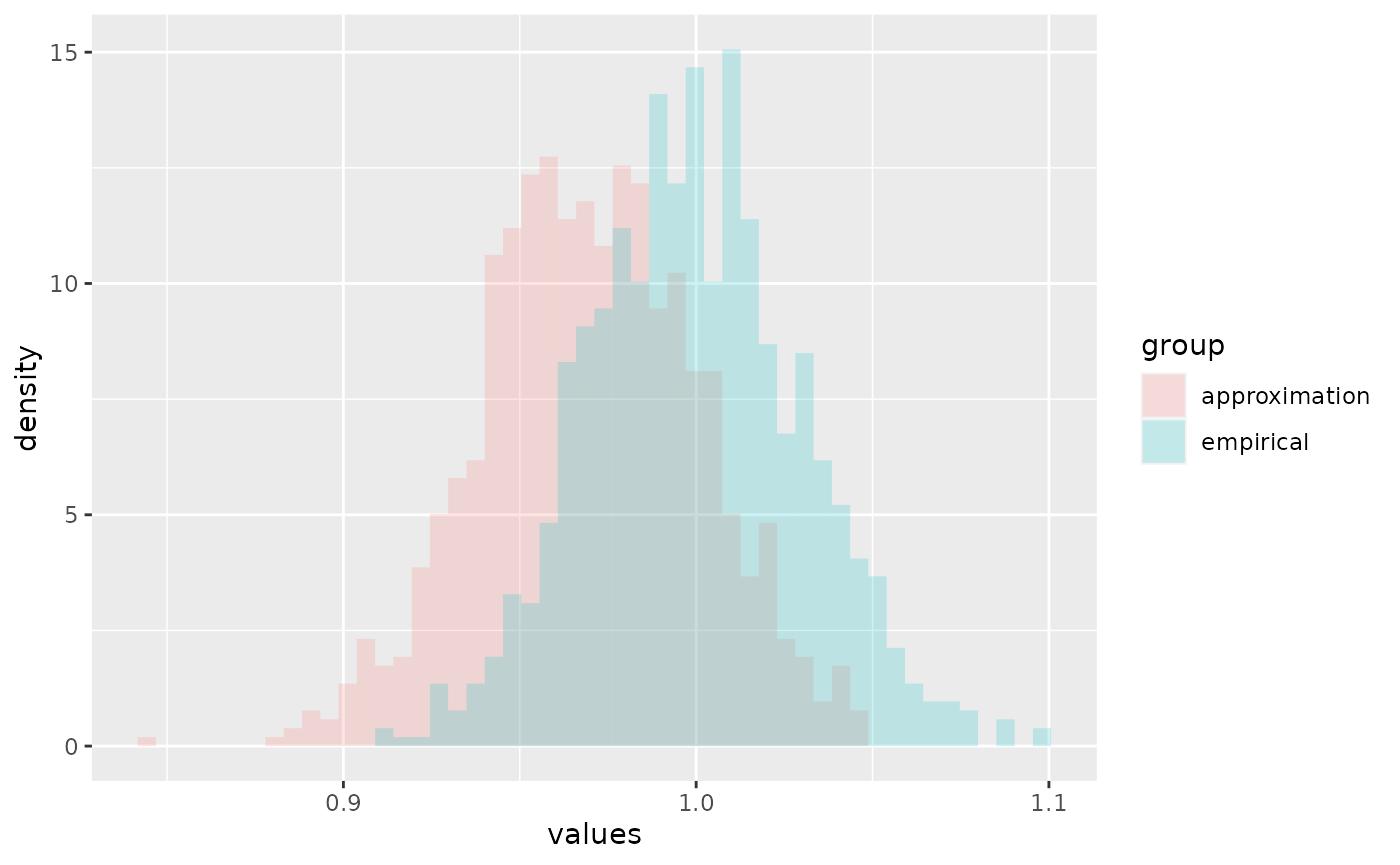
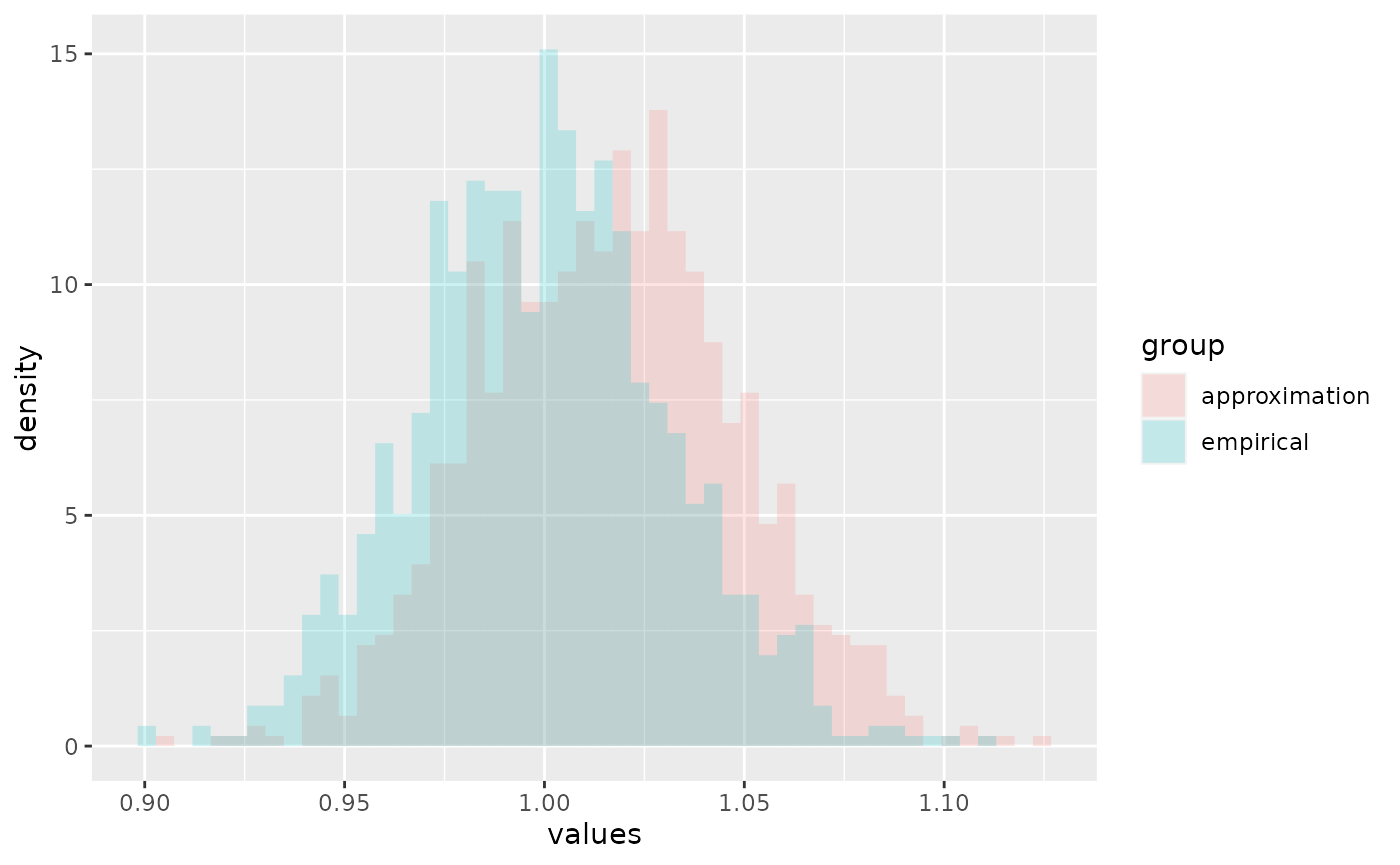
Built site for algebraic.mle: 0.1.0@9636455

diff --git a/articles/exponential-mle.html b/articles/exponential-mle.html
@@ -83,9 +83,11 @@
 <h2 id="introduction">Introduction<a class="anchor" aria-label="anchor" href="#introduction"></a>
 </h2>
 <p>To demonstrate the R package <code>algebraic.mle</code>, we consider the relatively simple case of a random sample from i.i.d. exponentially distributed random variables.</p>
-<p>First, we load the R package <code>algebraic.mle</code> with:</p>
+<p>First, we load the R package <code>algebraic.mle</code>, along with other R packages we need, with:</p>
 <div class="sourceCode" id="cb1"><pre class="downlit sourceCode r">
-<code class="sourceCode R"><span class="kw"><a href="https://rdrr.io/r/base/library.html" class="external-link">library</a></span><span class="op">(</span><span class="va"><a href="https://github.com/queelius/algebraic.mle" class="external-link">algebraic.mle</a></span><span class="op">)</span></code></pre></div>
+<code class="sourceCode R"><span class="kw"><a href="https://rdrr.io/r/base/library.html" class="external-link">library</a></span><span class="op">(</span><span class="va"><a href="https://github.com/queelius/algebraic.mle" class="external-link">algebraic.mle</a></span><span class="op">)</span>
+<span class="kw"><a href="https://rdrr.io/r/base/library.html" class="external-link">library</a></span><span class="op">(</span><span class="va"><a href="https://tibble.tidyverse.org/" class="external-link">tibble</a></span><span class="op">)</span>
+<span class="kw"><a href="https://rdrr.io/r/base/library.html" class="external-link">library</a></span><span class="op">(</span><span class="va"><a href="https://ggplot2.tidyverse.org" class="external-link">ggplot2</a></span><span class="op">)</span></code></pre></div>
 </div>
 <div class="section level2">
 <h2 id="generating-a-sample">Generating a sample<a class="anchor" aria-label="anchor" href="#generating-a-sample"></a>
@@ -96,23 +98,20 @@
 <span class="va">rate</span> <span class="op">&lt;-</span> <span class="fl">1</span></code></pre></div>
 <p>We generate a random sample <span class="math inline">\(X_i \sim \operatorname{EXP}(\lambda=1)\)</span> for <span class="math inline">\(i=1,\ldots,n\)</span> with:</p>
 <div class="sourceCode" id="cb3"><pre class="downlit sourceCode r">
-<code class="sourceCode R"><span class="kw"><a href="https://rdrr.io/r/base/library.html" class="external-link">library</a></span><span class="op">(</span><span class="va">stats</span><span class="op">)</span>
-<span class="kw"><a href="https://rdrr.io/r/base/library.html" class="external-link">library</a></span><span class="op">(</span><span class="va"><a href="https://tidyverse.tidyverse.org" class="external-link">tidyverse</a></span><span class="op">)</span>
-<span class="va">x</span> <span class="op">&lt;-</span> <span class="fu"><a href="https://tibble.tidyverse.org/reference/tibble.html" class="external-link">tibble</a></span><span class="op">(</span>x<span class="op">=</span><span class="fu">stats</span><span class="fu">::</span><span class="fu"><a href="https://rdrr.io/r/stats/Exponential.html" class="external-link">rexp</a></span><span class="op">(</span><span class="va">n</span>,<span class="va">rate</span><span class="op">)</span><span class="op">)</span></code></pre></div>
+<code class="sourceCode R"><span class="va">x</span> <span class="op">&lt;-</span> <span class="fu"><a href="https://tibble.tidyverse.org/reference/tibble.html" class="external-link">tibble</a></span><span class="op">(</span>x<span class="op">=</span><span class="fu"><a href="https://rdrr.io/r/stats/Exponential.html" class="external-link">rexp</a></span><span class="op">(</span><span class="va">n</span>,<span class="va">rate</span><span class="op">)</span><span class="op">)</span></code></pre></div>
 <p>We have observed a sample of size <span class="math inline">\(n=1000\)</span>. We show some observations from this sample (data frame) with:</p>
 <div class="sourceCode" id="cb4"><pre class="downlit sourceCode r">
 <code class="sourceCode R"><span class="fu"><a href="https://rdrr.io/r/base/print.html" class="external-link">print</a></span><span class="op">(</span><span class="fu"><a href="https://rdrr.io/r/utils/head.html" class="external-link">head</a></span><span class="op">(</span><span class="va">x</span>,n<span class="op">=</span><span class="fl">4</span><span class="op">)</span><span class="op">)</span>
 <span class="co">#&gt; <span style="color: #949494;"># A tibble: 4 × 1</span></span>
 <span class="co">#&gt;        x</span>
 <span class="co">#&gt;    <span style="color: #949494; font-style: italic;">&lt;dbl&gt;</span></span>
-<span class="co">#&gt; <span style="color: #BCBCBC;">1</span> 1.83  </span>
-<span class="co">#&gt; <span style="color: #BCBCBC;">2</span> 0.075<span style="text-decoration: underline;">1</span></span>
-<span class="co">#&gt; <span style="color: #BCBCBC;">3</span> 2.05  </span>
-<span class="co">#&gt; <span style="color: #BCBCBC;">4</span> 2.53</span></code></pre></div>
+<span class="co">#&gt; <span style="color: #BCBCBC;">1</span> 0.046<span style="text-decoration: underline;">8</span></span>
+<span class="co">#&gt; <span style="color: #BCBCBC;">2</span> 0.053<span style="text-decoration: underline;">3</span></span>
+<span class="co">#&gt; <span style="color: #BCBCBC;">3</span> 0.801 </span>
+<span class="co">#&gt; <span style="color: #BCBCBC;">4</span> 1.94</span></code></pre></div>
 <p>We show a histogram of the sample overlaid with a plot of the exponential function’s pdf, with:</p>
 <div class="sourceCode" id="cb5"><pre class="downlit sourceCode r">
-<code class="sourceCode R"><span class="kw"><a href="https://rdrr.io/r/base/library.html" class="external-link">library</a></span><span class="op">(</span><span class="va"><a href="https://ggplot2.tidyverse.org" class="external-link">ggplot2</a></span><span class="op">)</span>
-<span class="fu"><a href="https://ggplot2.tidyverse.org/reference/ggplot.html" class="external-link">ggplot</a></span><span class="op">(</span><span class="va">x</span>, <span class="fu"><a href="https://ggplot2.tidyverse.org/reference/aes.html" class="external-link">aes</a></span><span class="op">(</span>x<span class="op">=</span><span class="va">x</span><span class="op">)</span><span class="op">)</span> <span class="op">+</span> <span class="fu"><a href="https://ggplot2.tidyverse.org/reference/geom_histogram.html" class="external-link">geom_histogram</a></span><span class="op">(</span><span class="fu"><a href="https://ggplot2.tidyverse.org/reference/aes.html" class="external-link">aes</a></span><span class="op">(</span>y<span class="op">=</span><span class="va">..density..</span><span class="op">)</span>,alpha<span class="op">=</span><span class="fl">.2</span><span class="op">)</span> <span class="op">+</span>
+<code class="sourceCode R"><span class="fu"><a href="https://ggplot2.tidyverse.org/reference/ggplot.html" class="external-link">ggplot</a></span><span class="op">(</span><span class="va">x</span>, <span class="fu"><a href="https://ggplot2.tidyverse.org/reference/aes.html" class="external-link">aes</a></span><span class="op">(</span>x<span class="op">=</span><span class="va">x</span><span class="op">)</span><span class="op">)</span> <span class="op">+</span> <span class="fu"><a href="https://ggplot2.tidyverse.org/reference/geom_histogram.html" class="external-link">geom_histogram</a></span><span class="op">(</span><span class="fu"><a href="https://ggplot2.tidyverse.org/reference/aes.html" class="external-link">aes</a></span><span class="op">(</span>y<span class="op">=</span><span class="va">..density..</span><span class="op">)</span>,alpha<span class="op">=</span><span class="fl">.2</span><span class="op">)</span> <span class="op">+</span>
     <span class="fu"><a href="https://ggplot2.tidyverse.org/reference/lims.html" class="external-link">xlim</a></span><span class="op">(</span><span class="fl">0</span>,<span class="fl">6</span><span class="op">)</span> <span class="op">+</span> 
     <span class="fu"><a href="https://ggplot2.tidyverse.org/reference/geom_function.html" class="external-link">geom_function</a></span><span class="op">(</span>fun<span class="op">=</span><span class="va">dexp</span><span class="op">)</span></code></pre></div>
 <p><img src="exponential-mle_files/figure-html/unnamed-chunk-5-1.png" width="700"></p>
@@ -126,35 +125,35 @@
 <span class="fu"><a href="https://rdrr.io/r/base/summary.html" class="external-link">summary</a></span><span class="op">(</span><span class="va">rate.hat</span><span class="op">)</span>
 <span class="co">#&gt; Maximum likelihood estimator, of type mle_exp ,</span>
 <span class="co">#&gt; is normally distributed with mean</span>
-<span class="co">#&gt; [1] 0.9692816</span>
+<span class="co">#&gt; [1] 1.016196</span>
 <span class="co">#&gt; and variance-covariance</span>
-<span class="co">#&gt;              [,1]</span>
-<span class="co">#&gt; [1,] 0.0009395067</span>
+<span class="co">#&gt;             [,1]</span>
+<span class="co">#&gt; [1,] 0.001032655</span>
 <span class="co">#&gt; ---</span>
-<span class="co">#&gt; The asymptotic mean squared error 0.0009395067 </span>
+<span class="co">#&gt; The asymptotic mean squared error 0.001032655 </span>
 <span class="co">#&gt; The asymptotic 95% confidence interval is</span>
 <span class="co">#&gt;       2.5 %   97.5 %</span>
-<span class="co">#&gt; 1 0.9188645 1.019699</span>
-<span class="co">#&gt; The log-likelihood is -1031.2 </span>
-<span class="co">#&gt; The AIC is 2064.4</span></code></pre></div>
+<span class="co">#&gt; 1 0.9633389 1.069053</span>
+<span class="co">#&gt; The log-likelihood is -983.9336 </span>
+<span class="co">#&gt; The AIC is 1969.867</span></code></pre></div>
 <p>We can show the point estimator with:</p>
 <div class="sourceCode" id="cb7"><pre class="downlit sourceCode r">
 <code class="sourceCode R"><span class="fu"><a href="../reference/point.html">point</a></span><span class="op">(</span><span class="va">rate.hat</span><span class="op">)</span>
-<span class="co">#&gt; [1] 0.9692816</span></code></pre></div>
+<span class="co">#&gt; [1] 1.016196</span></code></pre></div>
 <p>We can show the Fisher information and variance-covariance matrices with:</p>
 <div class="sourceCode" id="cb8"><pre class="downlit sourceCode r">
 <code class="sourceCode R"><span class="fu"><a href="../reference/fisher_info.html">fisher_info</a></span><span class="op">(</span><span class="va">rate.hat</span><span class="op">)</span>
-<span class="co">#&gt;          [,1]</span>
-<span class="co">#&gt; [1,] 1064.388</span>
+<span class="co">#&gt;         [,1]</span>
+<span class="co">#&gt; [1,] 968.378</span>
 <span class="fu"><a href="https://rdrr.io/r/stats/vcov.html" class="external-link">vcov</a></span><span class="op">(</span><span class="va">rate.hat</span><span class="op">)</span>
-<span class="co">#&gt;              [,1]</span>
-<span class="co">#&gt; [1,] 0.0009395067</span></code></pre></div>
+<span class="co">#&gt;             [,1]</span>
+<span class="co">#&gt; [1,] 0.001032655</span></code></pre></div>
 <p>(If <code>rate.hat</code> had been a vector, <code>vcov</code> would have output a variance-covariance matrix. We may consider the above outputs <span class="math inline">\(1 \times 1\)</span> matrices.)</p>
 <p>We can show the confidence interval with:</p>
 <div class="sourceCode" id="cb9"><pre class="downlit sourceCode r">
 <code class="sourceCode R"><span class="fu"><a href="https://rdrr.io/r/stats/confint.html" class="external-link">confint</a></span><span class="op">(</span><span class="va">rate.hat</span><span class="op">)</span>
 <span class="co">#&gt;       2.5 %   97.5 %</span>
-<span class="co">#&gt; 1 0.9188645 1.019699</span></code></pre></div>
+<span class="co">#&gt; 1 0.9633389 1.069053</span></code></pre></div>
 <div class="section level3">
 <h3 id="sampling-distribution-of-the-mle">Sampling distribution of the MLE<a class="anchor" aria-label="anchor" href="#sampling-distribution-of-the-mle"></a>
 </h3>
@@ -206,10 +205,10 @@
 <p>We expected a mean of <span class="math inline">\(2\)</span> and a variance of <span class="math inline">\(4/n = 0.004\)</span>, which is pretty close to what we obtained:</p>
 <div class="sourceCode" id="cb15"><pre class="downlit sourceCode r">
 <code class="sourceCode R"><span class="fu"><a href="../reference/point.html">point</a></span><span class="op">(</span><span class="va">f.hat</span><span class="op">)</span>
-<span class="co">#&gt; [1] 1.938563</span>
+<span class="co">#&gt; [1] 2.032392</span>
 <span class="fu"><a href="https://rdrr.io/r/stats/vcov.html" class="external-link">vcov</a></span><span class="op">(</span><span class="va">f.hat</span><span class="op">)</span>
 <span class="co">#&gt;             [,1]</span>
-<span class="co">#&gt; [1,] 0.003884156</span></code></pre></div>
+<span class="co">#&gt; [1,] 0.004257833</span></code></pre></div>
 </div>
 </div>
 </div>
@@ -248,9 +247,9 @@
 <span class="fu"><a href="https://rdrr.io/r/base/colnames.html" class="external-link">colnames</a></span><span class="op">(</span><span class="va">df</span><span class="op">)</span> <span class="op">&lt;-</span> <span class="fu"><a href="https://rdrr.io/r/base/c.html" class="external-link">c</a></span><span class="op">(</span><span class="st">"point estimate"</span>,<span class="st">"variance"</span><span class="op">)</span>
 <span class="fu"><a href="https://tibble.tidyverse.org/reference/rownames.html" class="external-link">rownames</a></span><span class="op">(</span><span class="va">df</span><span class="op">)</span> <span class="op">&lt;-</span> <span class="fu"><a href="https://rdrr.io/r/base/c.html" class="external-link">c</a></span><span class="op">(</span><span class="st">"weighted MLE"</span>, <span class="st">"MLE"</span><span class="op">)</span>
 <span class="fu"><a href="https://rdrr.io/r/base/print.html" class="external-link">print</a></span><span class="op">(</span><span class="va">df</span><span class="op">)</span>
-<span class="co">#&gt;              point estimate    variance</span>
-<span class="co">#&gt; weighted MLE       1.028601 0.001063347</span>
-<span class="co">#&gt; MLE                1.033779 0.001068700</span></code></pre></div>
+<span class="co">#&gt;              point estimate     variance</span>
+<span class="co">#&gt; weighted MLE      0.9511083 0.0009115271</span>
+<span class="co">#&gt; MLE               0.9583841 0.0009185001</span></code></pre></div>
 <p>We see that <span class="math inline">\(\hat\theta\)</span> and <span class="math inline">\(\hat\theta_w\)</span> model approximately the same sampling distribution for <span class="math inline">\(\theta\)</span>.</p>
 </div>
 </div>

diff --git a/reference/mle_iterative.html b/reference/mle_iterative.html
@@ -60,9 +60,10 @@
     <div class="sourceCode"><pre class="sourceCode r"><code><span class="fu">mle_iterative</span><span class="op">(</span>
   <span class="va">l</span>,
   <span class="va">theta0</span>,
-  dir <span class="op">=</span> <span class="kw">function</span><span class="op">(</span><span class="va">theta</span><span class="op">)</span> <span class="fu">numDeriv</span><span class="fu">::</span><span class="fu"><a href="https://rdrr.io/pkg/numDeriv/man/grad.html" class="external-link">grad</a></span><span class="op">(</span><span class="va">l</span>, <span class="va">theta</span><span class="op">)</span>,
+  dir <span class="op">=</span> <span class="kw">function</span><span class="op">(</span><span class="va">theta</span><span class="op">)</span> <span class="fu">grad</span><span class="op">(</span><span class="va">l</span>, <span class="va">theta</span><span class="op">)</span>,
   stop_cond <span class="op">=</span> <span class="kw">function</span><span class="op">(</span><span class="va">theta1</span>, <span class="va">theta0</span><span class="op">)</span> <span class="fu"><a href="https://rdrr.io/r/base/MathFun.html" class="external-link">abs</a></span><span class="op">(</span><span class="fu"><a href="https://rdrr.io/r/base/Extremes.html" class="external-link">max</a></span><span class="op">(</span><span class="va">theta1</span> <span class="op">-</span> <span class="va">theta0</span><span class="op">)</span><span class="op">)</span> <span class="op">&lt;</span> <span class="fl">1e-04</span>,
   sup <span class="op">=</span> <span class="kw">function</span><span class="op">(</span><span class="va">theta</span><span class="op">)</span> <span class="fu"><a href="https://rdrr.io/r/base/all.html" class="external-link">all</a></span><span class="op">(</span><span class="va">theta</span> <span class="op">&gt;</span> <span class="fl">0</span><span class="op">)</span>,
+  eta <span class="op">=</span> <span class="fl">1</span>,
   r <span class="op">=</span> <span class="fl">0.5</span>,
   max_iter <span class="op">=</span> <span class="fl">0L</span>
 <span class="op">)</span></code></pre></div>
@@ -80,6 +81,8 @@
 <dd><p>stopping condition function of type \(R^p \times R^p \mapsto \{true,false\}\)</p></dd>
 <dt>sup</dt>
 <dd><p>domain of support function of type \(R^p \mapsto \{true,false\}\) for the log-likelhood function \(l\)</p></dd>
+<dt>eta</dt>
+<dd><p>learning rate</p></dd>
 <dt>r</dt>
 <dd><p>backing tracking parameter</p></dd>
 <dt>max_iter</dt>

diff --git a/reference/mle_gradient_ascent.html b/reference/mle_gradient_ascent.html
@@ -60,7 +60,7 @@
     <div class="sourceCode"><pre class="sourceCode r"><code><span class="fu">mle_gradient_ascent</span><span class="op">(</span>
   <span class="va">l</span>,
   <span class="va">theta0</span>,
-  score <span class="op">=</span> <span class="kw">function</span><span class="op">(</span><span class="va">theta</span><span class="op">)</span> <span class="fu">numDeriv</span><span class="fu">::</span><span class="fu"><a href="https://rdrr.io/pkg/numDeriv/man/grad.html" class="external-link">grad</a></span><span class="op">(</span><span class="va">l</span>, <span class="va">theta</span><span class="op">)</span>,
+  score <span class="op">=</span> <span class="kw">function</span><span class="op">(</span><span class="va">theta</span><span class="op">)</span> <span class="fu">grad</span><span class="op">(</span><span class="va">l</span>, <span class="va">theta</span><span class="op">)</span>,
   stop_cond <span class="op">=</span> <span class="kw">function</span><span class="op">(</span><span class="va">theta1</span>, <span class="va">theta0</span><span class="op">)</span> <span class="fu"><a href="https://rdrr.io/r/base/MathFun.html" class="external-link">abs</a></span><span class="op">(</span><span class="fu"><a href="https://rdrr.io/r/base/Extremes.html" class="external-link">max</a></span><span class="op">(</span><span class="va">theta1</span> <span class="op">-</span> <span class="va">theta0</span><span class="op">)</span><span class="op">)</span> <span class="op">&lt;</span> <span class="fl">1e-04</span>,
   sup <span class="op">=</span> <span class="kw">function</span><span class="op">(</span><span class="va">theta</span><span class="op">)</span> <span class="fu"><a href="https://rdrr.io/r/base/all.html" class="external-link">all</a></span><span class="op">(</span><span class="va">theta</span> <span class="op">&gt;</span> <span class="fl">0</span><span class="op">)</span>,
   r <span class="op">=</span> <span class="fl">0.75</span>,

diff --git a/reference/mle_newton_raphson.html b/reference/mle_newton_raphson.html
@@ -72,17 +72,17 @@
     <div class="section level2">
     <h2 id="arguments">Arguments<a class="anchor" aria-label="anchor" href="#arguments"></a></h2>
     <dl><dt>l</dt>
-<dd><p>log-likelihood function of type \(R^p \mapsto R\)</p></dd>
+<dd><p>log-likelihood function of type <code>R^p -&gt; R</code></p></dd>
 <dt>theta0</dt>
-<dd><p>initial guess of theta with \(p\) components</p></dd>
+<dd><p>initial guess of theta with <code>p</code> components</p></dd>
 <dt>info</dt>
-<dd><p>information matrix function of type \(R^p -&gt; R^{p \times q}\)</p></dd>
+<dd><p>information matrix function of type <code>R^p -&gt; R^{p-by-q}</code></p></dd>
 <dt>score</dt>
-<dd><p>score function of type \(R^p -&gt; R^p\)</p></dd>
+<dd><p>score function of type <code>R^p -&gt; R^p</code></p></dd>
 <dt>stop_cond</dt>
-<dd><p>stopping condition function of type \(R^p \times R^p \mapsto \{true,false\}\)</p></dd>
+<dd><p>stopping condition function of type <code>(R^p,R^p) -&gt; {true,false}</code></p></dd>
 <dt>sup</dt>
-<dd><p>domain of support function of type \(R^p \mapsto \{true,false\}\) for the log-likelhood function \(l\)</p></dd>
+<dd><p>domain of support function of type <code>R^p -&gt; {true,false}</code> for the log-likelhood function <code>l</code></p></dd>
 <dt>r</dt>
 <dd><p>backing tracking parameter</p></dd>
 <dt>max_iter</dt>
